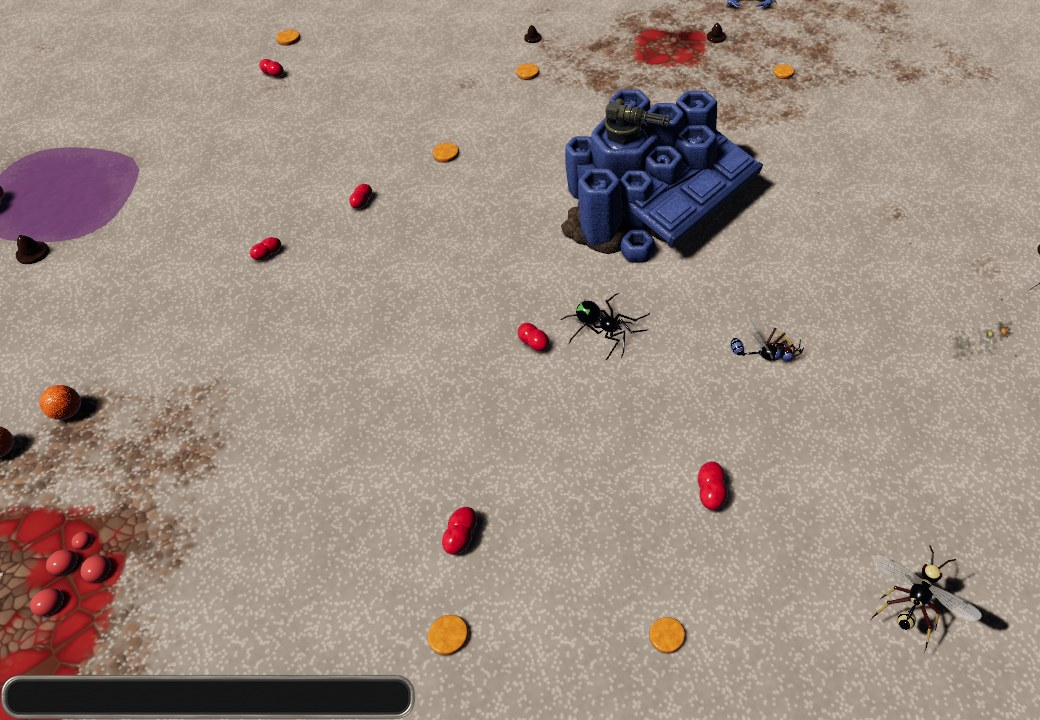
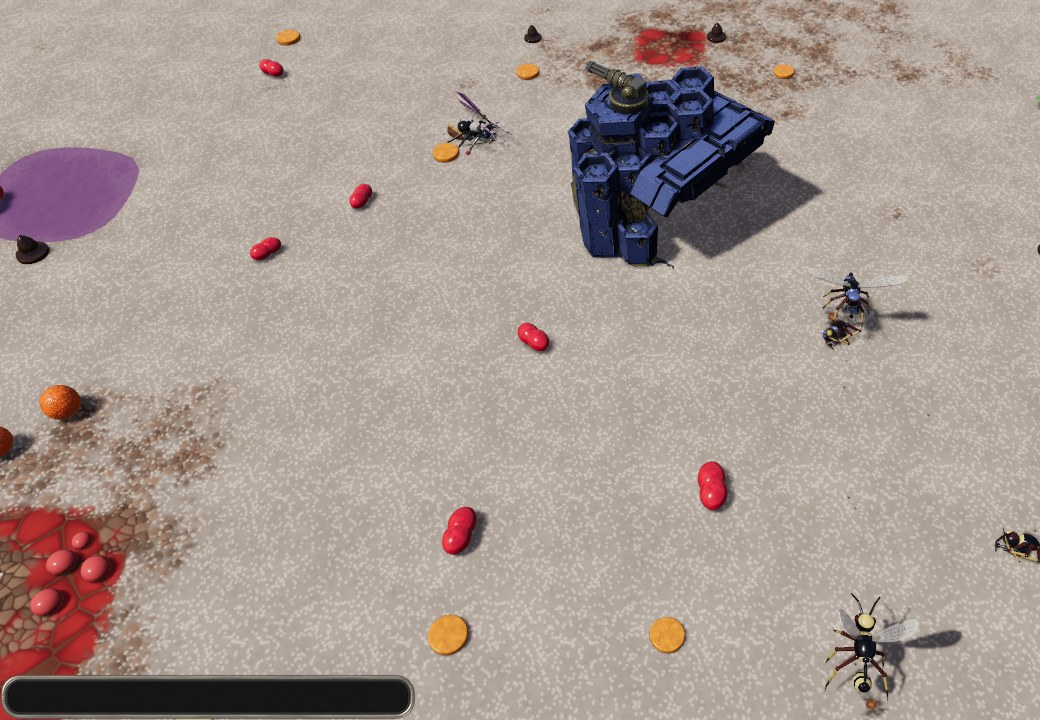
README: the new colonies, and Procedural Mode as our own twist
New screenshots with the Tripo colonies (and a row of all five in their
team colours). The README now says how the colony models were made,
that health, damage and range are the original program's own numbers,
and that Procedural Mode is Redux's own addition, not part of the 1999
game.

diff --git a/README.md b/README.md
@@ -9,11 +9,15 @@ game of warring bug colonies, rebuilt from scratch in Rust with [Bevy](https://b
 bombing run.*
 
 Five bug families fight over colonies across the original's levels. The rules, levels and
-interface are the original's; the battlefield is 3-D. Every bug, colony, turret, plant and prop is
-a new 3-D model, rigged and animated in Blender by scripts kept in this repository, and each
-level's ground is built in 3-D from the original level layout. The code is all new: nothing from
-the 1999 game is copied into this repository. If you own the original, the game reads its
+interface are the original's; the battlefield is 3-D. Every bug, turret, plant and prop is a new
+3-D model, rigged and animated in Blender by scripts kept in this repository; the colonies were
+generated with Tripo from the original's colony pictures and finished in Blender the same way.
+Each level's ground is built in 3-D from the original level layout. The code is all new: nothing
+from the 1999 game is copied into this repository. If you own the original, the game reads its
 interface, menus, ground tiles, effects and sounds from your copy while it runs.
+
+On top of the original, Redux adds a twist of its own: beat the campaign and an endless
+**Procedural Mode** opens up, with new generated levels that keep getting harder.
 
 **Status:** work in progress, playable on Windows. Every level loads and runs (checked by the
 test suite). Being worked on now: each bug's attack animation, matched to the original's attack
@@ -36,10 +40,18 @@ target and loop back round until they hit.
 
 ### Colonies
 
+![The five colonies in their team colours: ant, beetle (neutral), spider, scorpion, wasp](docs/screenshots/redux/colonies.jpg)
+
 Each family's colony breeds its three units and defends itself with turrets. Destroy an enemy
 colony and it scatters bits: collect more of them than anyone else and the colony is yours, as
 in the original. Turret structures (tesla coils among them) and boosters stand where the
 original levels put them.
+
+The colony models began as 3-D models that Tripo generated from the original's colony pictures.
+In Blender each one was stood level, fitted to the original's camera view and textured in its
+team colour. The turrets sit where the original mounts them: the ant's twin machine guns, the
+beetle's cannon, the spider's sniper barrels in its two towers, the scorpion's spear launcher and
+the wasp's chain gun. New bugs walk out of the colony's doorway.
 
 ### Neutral creatures
 
@@ -58,10 +70,10 @@ The original's 100 campaign levels and its 24 custom and skirmish maps, with the
 (grass, desert, swamp and candy), colonies, turrets, boosters, creatures and start positions,
 plus two demo maps. Campaign levels unlock one after another.
 
-### Procedural Mode
+### Procedural Mode: our own twist
 
-Finish the campaign and a **Procedural Mode** button appears on the main menu: an endless run of
-new maps. Every map is made from scratch with a name to match. Its ground is laid with the
+This is not in the 1999 game; it is Redux's own addition. Finish the campaign and a
+**Procedural Mode** button appears on the main menu: an endless run of new maps. Every map is made from scratch with a name to match. Its ground is laid with the
 original's own ground pieces, in the patterns the original levels use, so the shores, rocks and
 scrub look like a real Swarm Assault level. Colonies, armies, plants, flyers and props are placed
 on top. Win and **Next Level** takes you on to a harder map: more enemy teams (up to three), more
@@ -91,8 +103,8 @@ taken with a copy installed.
 
 | | |
 |---|---|
-| ![A beetle colony and its cannon, close up](docs/screenshots/redux/colony.jpg)<br>A beetle colony and its cannon | ![A wasp colony on a candy level, a Black Widow and an Assault Wasp](docs/screenshots/redux/candy.jpg)<br>A candy level: a wasp colony, a Black Widow and an Assault Wasp |
-| ![Lady Bugs fight Black Widows between spider and beetle colonies](docs/screenshots/redux/everywhere.jpg)<br>Lady Bugs against Black Widows | ![Popcorn Plant, Thorn Bush and Seed Ball above; Choc Freckle and Death Lollies below](docs/screenshots/redux/plants.jpg)<br>Creep plants: two Death Lollies have just gone off |
+| ![A beetle colony and its cannon; new Lady Bugs leave through its doorway](docs/screenshots/redux/colony.jpg)<br>A beetle colony and its cannon; new Lady Bugs leave through the doorway | ![A wasp colony on a candy level and its Assault Wasps](docs/screenshots/redux/candy.jpg)<br>A candy level: a wasp colony and its Assault Wasps |
+| ![Black Widows march out of a spider colony; a beetle colony below](docs/screenshots/redux/everywhere.jpg)<br>Black Widows march out of a spider colony | ![Popcorn Plant, Thorn Bush and Seed Ball above; Choc Freckle and Death Lollies below](docs/screenshots/redux/plants.jpg)<br>Creep plants: two Death Lollies have just gone off |
 
 ## Playing
 
@@ -157,17 +169,20 @@ More in [docs/BUILD_WINDOWS.md](docs/BUILD_WINDOWS.md).
 
 ## Faithfulness
 
-Unit and colony numbers come from OpenSA, a fan re-implementation of *Swarm Assault* on the
-OpenRA engine; where the original's own data files could settle a question (creature counts per
-level, animations, the interface layout), they did. [docs/GAMEPLAY_RESEARCH.md](docs/GAMEPLAY_RESEARCH.md)
-lists what is verified and what is assumed.
+Health, damage and range of every bug, neutral creature and colony turret are the original
+program's own numbers, read from its code. Other unit and colony numbers come from OpenSA, a fan
+re-implementation of *Swarm Assault* on the OpenRA engine. Where the original's own data files
+could settle a question (creature counts per level, animations, turret mounts, the interface
+layout), they did. [docs/GAMEPLAY_RESEARCH.md](docs/GAMEPLAY_RESEARCH.md) lists what is verified
+and what is assumed. Procedural Mode is the one deliberate addition.
 
 ## Credits and license
 
 * *Swarm Assault* was made by Gate 5 Creations in 1999 and published by Mountain King Studios.
   This is an unofficial fan recreation, not affiliated with or endorsed by them.
 * The levels were converted from the OpenSA project's maps ([docs/LEVELS.md](docs/LEVELS.md)).
-* Built with [Bevy](https://bevy.org) and [Blender](https://www.blender.org).
+* Built with [Bevy](https://bevy.org) and [Blender](https://www.blender.org); the colony models
+  were generated with [Tripo](https://www.tripo3d.ai) by mike70727.
 * Made by [mike70727](https://github.com/mike70727), with Claude (Anthropic) writing the code,
   models and animation.
 
